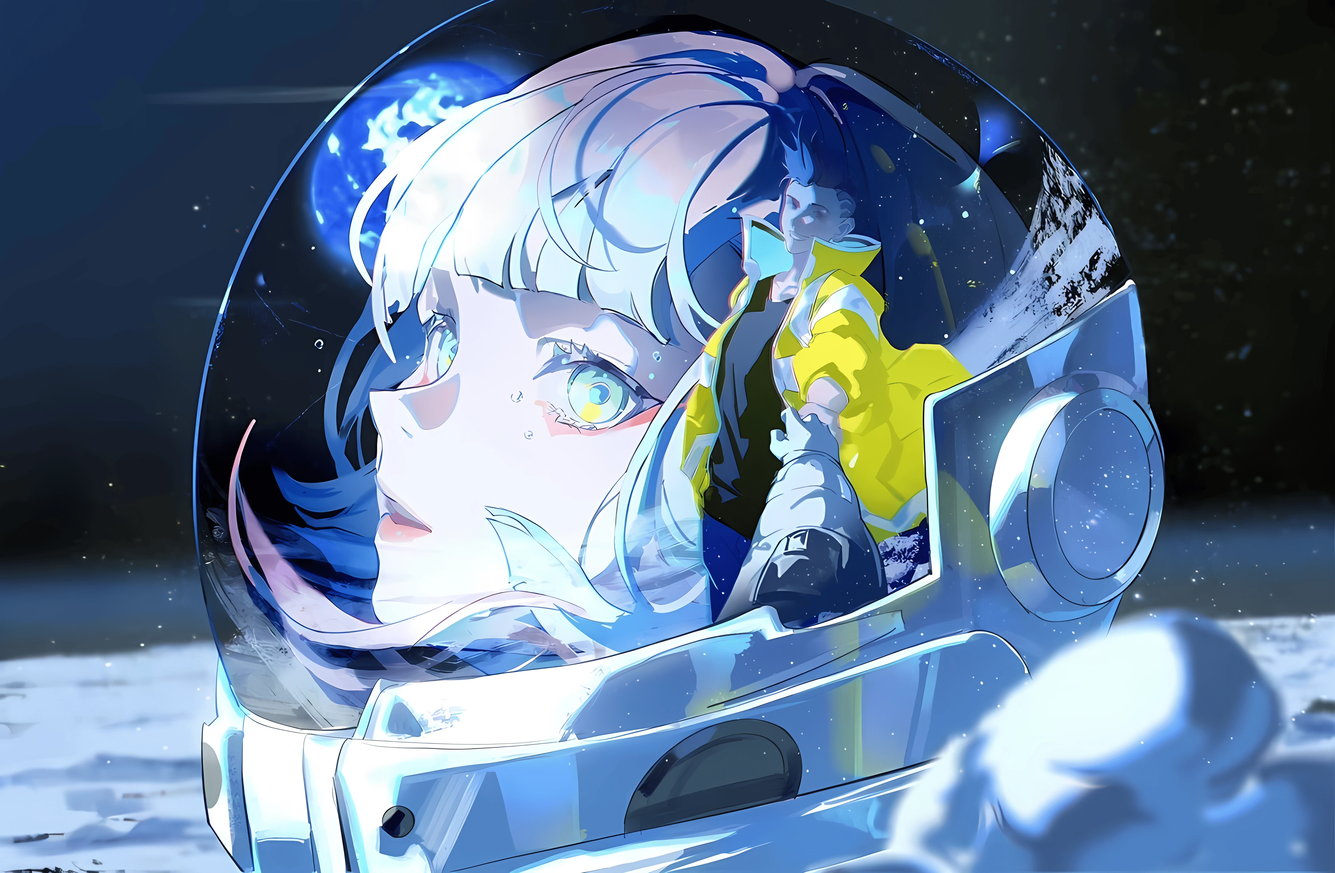
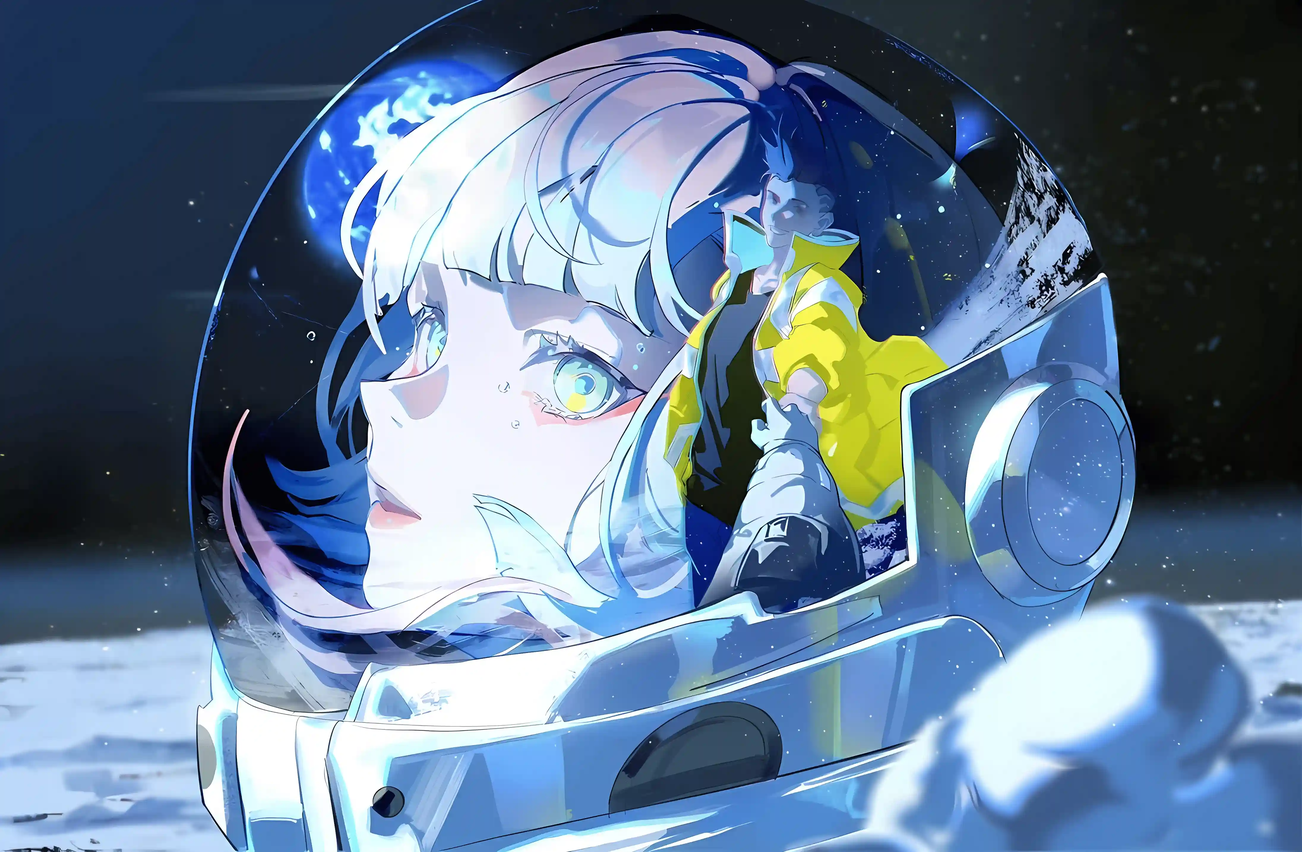
img optimizations

diff --git a/src/Components/Story.jsx b/src/Components/Story.jsx
@@ -6,78 +6,78 @@ import Button from "./Button";
 
 const Story = () => {
 
-	const frameRef = useRef('null');
-	const handelMouseLeave = () => {
-		const element = frameRef.current;
+  const frameRef = useRef('null');
+  const handelMouseLeave = () => {
+    const element = frameRef.current;
 
-		gsap.to(element, {
-			duration: 0.3,
-			rotateX: 0,
-			rotateY: 0,
-			ease: 'power1.inOut'
-		})
+    gsap.to(element, {
+      duration: 0.3,
+      rotateX: 0,
+      rotateY: 0,
+      ease: 'power1.inOut'
+    })
 
-	}
+  }
 
-	const handelMouseMove = (e) => {
-		const {clientX, clientY} = e;
-		const element = frameRef.current;
+  const handelMouseMove = (e) => {
+    const { clientX, clientY } = e;
+    const element = frameRef.current;
 
-		if(!e) return;
+    if (!e) return;
 
-		const rect = element.getBoundingClientRect();
-		const x = clientX - rect.left;
-		const y = clientY - rect.top;
+    const rect = element.getBoundingClientRect();
+    const x = clientX - rect.left;
+    const y = clientY - rect.top;
 
-		const centerX = rect.width /2;
-		const centerY = rect.height / 2;
+    const centerX = rect.width / 2;
+    const centerY = rect.height / 2;
 
-		const rotateX = ((y-centerY) / centerY) * -10;
-		const rotateY = ((x-centerX) / centerX) * 10;
+    const rotateX = ((y - centerY) / centerY) * -10;
+    const rotateY = ((x - centerX) / centerX) * 10;
 
-		gsap.to(element, {
-			duration: 0.3,
-			rotateX, rotateY,
-			transformPerspective: 500,
-			ease: 'power1.inOut'
-		})
-	}
+    gsap.to(element, {
+      duration: 0.3,
+      rotateX, rotateY,
+      transformPerspective: 500,
+      ease: 'power1.inOut'
+    })
+  }
 
   return (
     <section className="min-h-dvh w-screen bg-black text-blue-50">
-			<div className="flex size-full flex-col items-center py-10 pb-24">
+      <div className="flex size-full flex-col items-center py-10 pb-24">
         <p className="font-general text-sm uppercase md:text-[10px]">
           the city that takes everything
         </p>
-				<div className="relative size-full">
+        <div className="relative size-full">
           <AnimatedTitle
             title="T<b>h</b>ere are <b>n</b>o <br /> happy e<b>n</b>dings <br /> in <b>n</b>ight City"
             containerClass="mt-5 pointer-events-none mix-blend-difference relative z-10 special-font"
           />
-					<div className="story-img-container ">
-						<div className="story-img-mask">
-							<div className="story-img-content">
-								<img 
-									ref={frameRef}
-									src="/img/entrance.jpg" 
-									alt="entrance"
-									className="object-contain ml-10"
-									onMouseLeave={handelMouseLeave}
-									onMouseUp={handelMouseLeave}
-									onMouseEnter={handelMouseLeave}
-									onMouseMove={handelMouseMove}
-									/>
-							</div>
-						</div>
-						<RoundedCorners />
-					</div>
-				</div>
-				<div className="-mt-80 flex w-full justify-center md:-mt-64 md:me-44 md:justify-end">
-					<div className="flex h-full w-fit flex-col items-center md:items-start">
-						<p className="mt-3 max-w-sm text-center font-circular-web text-violet-50 md:text-start">
-							Edgerunners tells a standalone, 10-episode story about a street kid — David — trying to survive in Night City, a technology and body modification-obsessed city of the future. Having everything to lose, he chooses to stay alive by becoming an edgerunner—a mercenary outlaw also known as a cyberpunk.
-						</p>
-						<a
+          <div className="story-img-container ">
+            <div className="story-img-mask">
+              <div className="story-img-content">
+                <img
+                  ref={frameRef}
+                  src="/img/entrance.webp"
+                  alt="entrance"
+                  className="object-contain ml-10"
+                  onMouseLeave={handelMouseLeave}
+                  onMouseUp={handelMouseLeave}
+                  onMouseEnter={handelMouseLeave}
+                  onMouseMove={handelMouseMove}
+                />
+              </div>
+            </div>
+            <RoundedCorners />
+          </div>
+        </div>
+        <div className="-mt-80 flex w-full justify-center md:-mt-64 md:me-44 md:justify-end">
+          <div className="flex h-full w-fit flex-col items-center md:items-start">
+            <p className="mt-3 max-w-sm text-center font-circular-web text-violet-50 md:text-start">
+              Edgerunners tells a standalone, 10-episode story about a street kid — David — trying to survive in Night City, a technology and body modification-obsessed city of the future. Having everything to lose, he chooses to stay alive by becoming an edgerunner—a mercenary outlaw also known as a cyberpunk.
+            </p>
+            <a
               href="https://cyberpunk.fandom.com/wiki/Cyberpunk:_Edgerunners"
               target="_blank"
             >
@@ -87,10 +87,10 @@ const Story = () => {
                 containerClass="mt-5"
               />
             </a>
-					</div>
-				</div>
-			</div>
-		</section>
+          </div>
+        </div>
+      </div>
+    </section>
   );
 };
 

diff --git a/src/Components/Contact.jsx b/src/Components/Contact.jsx
@@ -16,18 +16,18 @@ const Contact = () => {
       <div className="relative rounded-lg bg-black py-24 -mx-4 sm:mx-0 text-blue-50 sm:overflow-hidden">
         <div className="absolute -left-20 top-0 hidden h-full w-72 overflow-hidden sm:block lg:left-20 lg:w-96">
           <ImageClipBox
-            src="/img/contact-1.png"
+            src="/img/contact-1.webp"
             clipClass="contact-clip-path-1 scale-90"
           />
           <ImageClipBox
-            src="/img/contact-2.jpg"
+            src="/img/contact-2.webp"
             clipClass="contact-clip-path-2 -translate-y-20 scale-120"
           />
         </div>
         <div className="absolute -top-20 left-20 w-60 sm:top-1/2 md:left-auto md:right-10 lg:top-20 lg:w-80">
           <ImageClipBox
             clipClass="sword-man-clip-path md:scale-135"
-            src="img/swordman.png"
+            src="img/swordman.webp"
           />
         </div>
 
@@ -39,8 +39,8 @@ const Contact = () => {
             title="I<b>n</b>spired by <br /> Cyberpunk Edgerunners <br /> Designed Like Zentry"
             containerClass="--font-family-zentry !md:text-[6.2rem] w-full  text-5xl leading-[0.9] md:text-[6rem] special-font"
           />
-          <Button 
-            title='Made with Love for Lucy' 
+          <Button
+            title='Made with Love for Lucy'
             containerClass='mt-10 cursor-pointer' />
         </div>
       </div>
